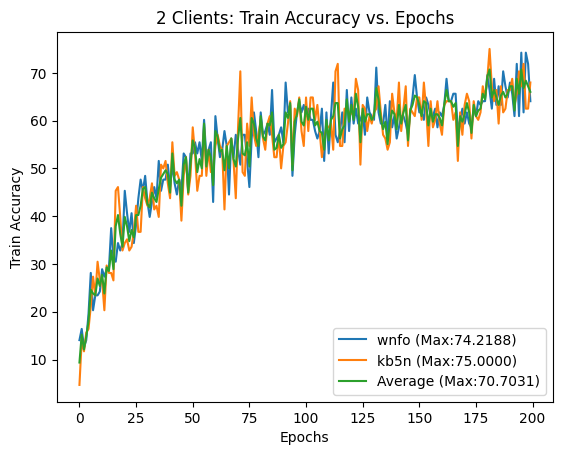
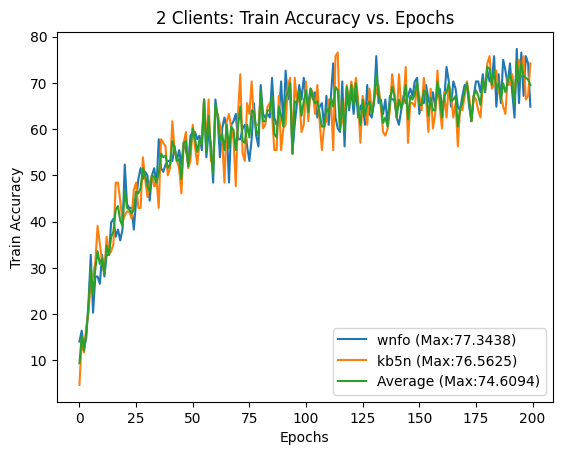
Add noise multiplier

diff --git a/clients.py b/clients.py
@@ -41,8 +41,10 @@ def initialize_client(client, dataset, train_batch_size, test_batch_size, tranfo
 
 if __name__ == "__main__":
     torch.multiprocessing.set_start_method('spawn')
-    num_clients = 2
+    num_clients = 1
     num_epochs = 200
+    noise_multiplier = 1.0
+    delta = 1.6e-5
 
     server_pipe_endpoints = {}
 
@@ -126,7 +128,7 @@ if __name__ == "__main__":
                 client.front_privacy_engine.make_private(
                 module=client.front_model,
                 data_loader=client.train_DataLoader,
-                noise_multiplier=1.3,
+                noise_multiplier=noise_multiplier,
                 max_grad_norm=1.0,
                 optimizer=client.front_optimizer,
             )
@@ -146,7 +148,7 @@ if __name__ == "__main__":
             # wrap optimizer
             client.back_optimizer = DPOptimizer(
                 optimizer=client.back_optimizer,
-                noise_multiplier=1.3, # same as make_private arguments
+                noise_multiplier=noise_multiplier, # same as make_private arguments
                 max_grad_norm=1.0, # same as make_private arguments
                 expected_batch_size=train_batch_size # if you're averaging your gradients, you need to know the denominator
             )
@@ -256,6 +258,13 @@ if __name__ == "__main__":
                 train_acc += client.train_acc[-1]
             train_acc = train_acc/num_clients
             overall_acc.append(train_acc)
+
+            
+            for _, client in clients.items():
+                front_epsilon, front_best_alpha = client.front_privacy_engine.accountant.get_privacy_spent(delta=delta)
+                back_epsilon, back_best_alpha = client.back_accountant.get_privacy_spent(delta=delta)
+                print(f"([{client.id}] ε = {front_epsilon:.2f}, δ = {delta}) for α = {front_best_alpha}")
+                print(f"([{client.id}] ε = {back_epsilon:.2f}, δ = {delta}) for α = {back_best_alpha}")
 
 
         # # Testing

diff --git a/server.py b/server.py
@@ -98,7 +98,9 @@ def main(server_pipe_endpoints):
     test_batch_size = 128
     HOST = 'localhost'
     PORT = 8000
-    limit_clients = 2
+    limit_clients = 1
+    noise_multiplier = 1.0
+    delta = 1.6e-5
     accept_clients = AcceptClients(HOST, PORT, limit_clients)
     # accept_clients.start()
     ServerSocket = accept_clients.run(server_pipe_endpoints)
@@ -134,7 +136,7 @@ def main(server_pipe_endpoints):
         # wrap optimizer
         client.center_optimizer = DPOptimizer(
             optimizer=client.center_optimizer,
-            noise_multiplier=1.3, # same as make_private arguments
+            # noise_multiplier=noise_multiplier, # same as make_private arguments
             max_grad_norm=1.0, # same as make_private arguments
             expected_batch_size=train_batch_size # if you're averaging your gradients, you need to know the denominator
         )
@@ -187,6 +189,9 @@ def main(server_pipe_endpoints):
             for _, client in connected_clients.items():
                 client.center_optimizer.zero_grad()
                 
+            epsilon, best_alpha = client.center_accountant.get_privacy_spent(delta=delta)
+            print(f"([server] ε = {epsilon:.2f}, δ = {delta}) for α = {best_alpha}")
+
 
         # # Testing
         # for _, client in connected_clients.items():
